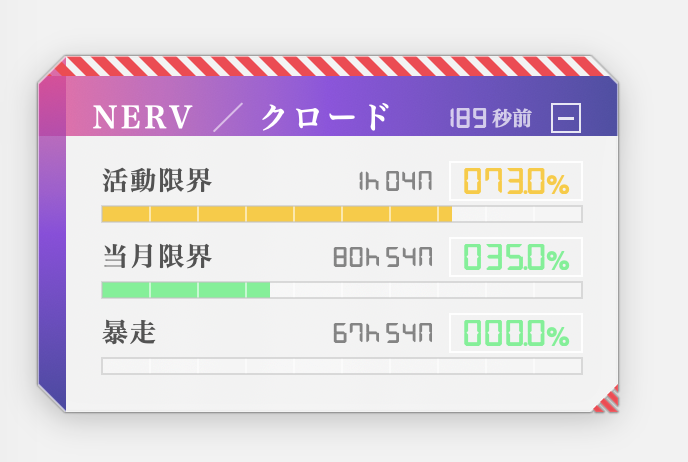
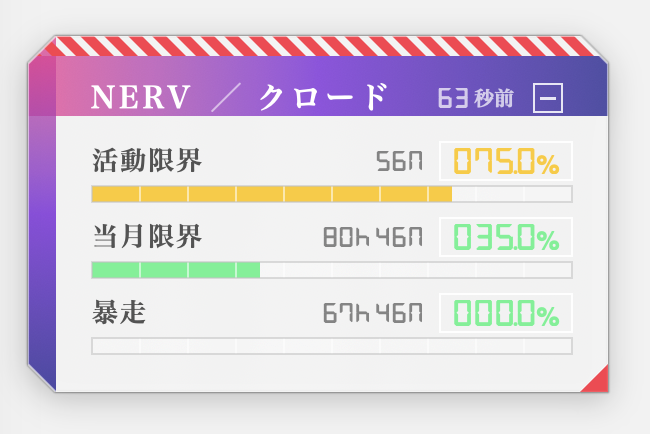
Solid-red bottom-right triangle, dual minimize hot zones, restore narrow top stripes
- Replace striped HazardCorner with solid-fill triangle (cleaner against the white minimize button)
- toggleHotZones is now an array; mouse-up checks any rect — top-right ▢ button OR bottom-right corner now both minimize
- Revert RedDiagonalStripes top default to stripe=7 gap=5 (the wider variant felt heavy over time)
- Refresh MAX screenshot

Changed region(s): [[0.0308, 0.0599, 0.9538, 0.9286]]

diff --git a/src/floater.swift b/src/floater.swift
@@ -122,7 +122,8 @@ struct EvaPanel: Shape {
     }
 }
 
-// Diagonal hazard stripes filling a right triangle that sits in the cut-away corner.
+// Solid red triangle that sits in a cut-away corner. Doubles as a click target
+// (the bottom-right one is wired up as a minimize hot zone).
 struct HazardCorner: View {
     var size: CGFloat
     var rotated: Bool = false  // true = bottom-right corner
@@ -135,21 +136,7 @@ struct HazardCorner: View {
                 p.addLine(to: CGPoint(x: 0, y: h))
                 p.closeSubpath()
             }
-            ctx.clip(to: tri)
-            let stripe: CGFloat = 4
-            let gap: CGFloat = 3
-            var x: CGFloat = -h
-            while x < w + h {
-                let path = Path { p in
-                    p.move(to: CGPoint(x: x, y: 0))
-                    p.addLine(to: CGPoint(x: x + stripe, y: 0))
-                    p.addLine(to: CGPoint(x: x + stripe + h, y: h))
-                    p.addLine(to: CGPoint(x: x + h, y: h))
-                    p.closeSubpath()
-                }
-                ctx.fill(path, with: .color(Eva.red))
-                x += stripe + gap
-            }
+            ctx.fill(tri, with: .color(Eva.red))
         }
         .frame(width: size, height: size)
         .rotationEffect(.degrees(rotated ? 180 : 0))
@@ -525,7 +512,7 @@ final class InputContainer: NSView {
 // (toggle min, expand max) based on click location and model state.
 final class PanelInputView: NSView {
     weak var model: AppModel?
-    var toggleButtonHotZone: NSRect = .zero  // in view-local bottom-up coords
+    var toggleHotZones: [NSRect] = []  // view-local bottom-up coords; any rect = minimize
 
     private var initialMouse: NSPoint?
     private var initialOrigin: NSPoint?
@@ -556,9 +543,9 @@ final class PanelInputView: NSView {
         let loc = convert(event.locationInWindow, from: nil)
         let dragged = didDrag
         let mini = model?.minimized ?? false
-        let inHot = toggleButtonHotZone.contains(loc)
-        NSLog("[floater] mouseUp loc=(%.1f,%.1f) hot=%@ dragged=%d mini=%d inHot=%d",
-              loc.x, loc.y, NSStringFromRect(toggleButtonHotZone), dragged, mini, inHot)
+        let inHot = toggleHotZones.contains(where: { $0.contains(loc) })
+        NSLog("[floater] mouseUp loc=(%.1f,%.1f) zones=%d dragged=%d mini=%d inHot=%d",
+              loc.x, loc.y, toggleHotZones.count, dragged, mini, inHot)
         defer {
             initialMouse = nil
             initialOrigin = nil
@@ -698,6 +685,14 @@ final class AppDelegate: NSObject, NSApplicationDelegate {
     let maxSize = NSSize(width: 290, height: 178)
     let minSize = NSSize(width: 116, height: 28)
 
+    // Hot zones for "minimize" while in MAX form: top-right square button + bottom-right red corner.
+    static func maxHotZones(for size: NSSize) -> [NSRect] {
+        return [
+            NSRect(x: size.width - 50, y: size.height - 50, width: 46, height: 44),  // top-right ▢
+            NSRect(x: size.width - 36, y: 0, width: 36, height: 32),                 // bottom-right ▼
+        ]
+    }
+
     func applicationDidFinishLaunching(_ notification: Notification) {
         let host = NSHostingView(rootView: RootView(loader: loader, model: model))
         host.autoresizingMask = [.width, .height]
@@ -735,10 +730,7 @@ final class AppDelegate: NSObject, NSApplicationDelegate {
         p.makeKeyAndOrderFront(nil)
         self.panel = p
 
-        // ▼ hot zone — generous box covering the visual button area in the top-right
-        inputView.toggleButtonHotZone = NSRect(
-            x: maxSize.width - 50, y: maxSize.height - 50, width: 46, height: 44
-        )
+        inputView.toggleHotZones = AppDelegate.maxHotZones(for: maxSize)
 
         cancellable = model.$minimized.sink { [weak self] mini in
             guard let self else { return }
@@ -771,9 +763,7 @@ final class AppDelegate: NSObject, NSApplicationDelegate {
                 }
                 self.panel.setFrame(NSRect(origin: newOrigin, size: target), display: true, animate: false)
                 if !mini {
-                    self.inputView.toggleButtonHotZone = NSRect(
-                        x: target.width - 50, y: target.height - 50, width: 46, height: 44
-                    )
+                    self.inputView.toggleHotZones = AppDelegate.maxHotZones(for: target)
                 }
             }
         }
